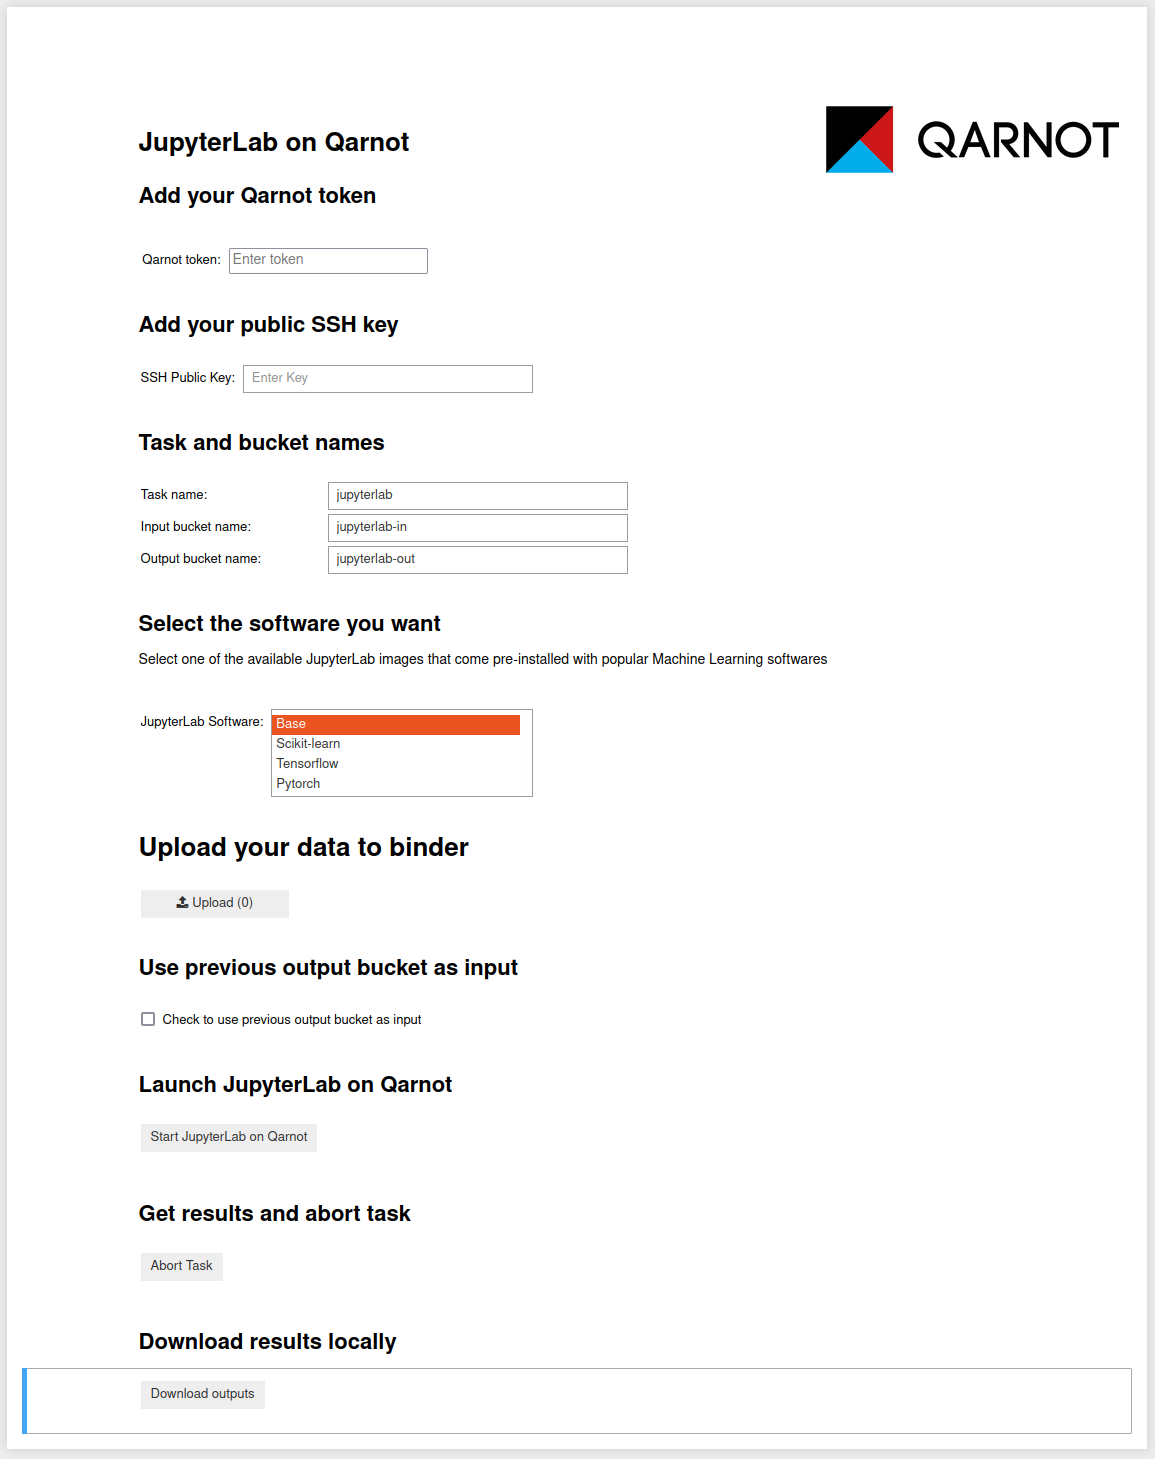
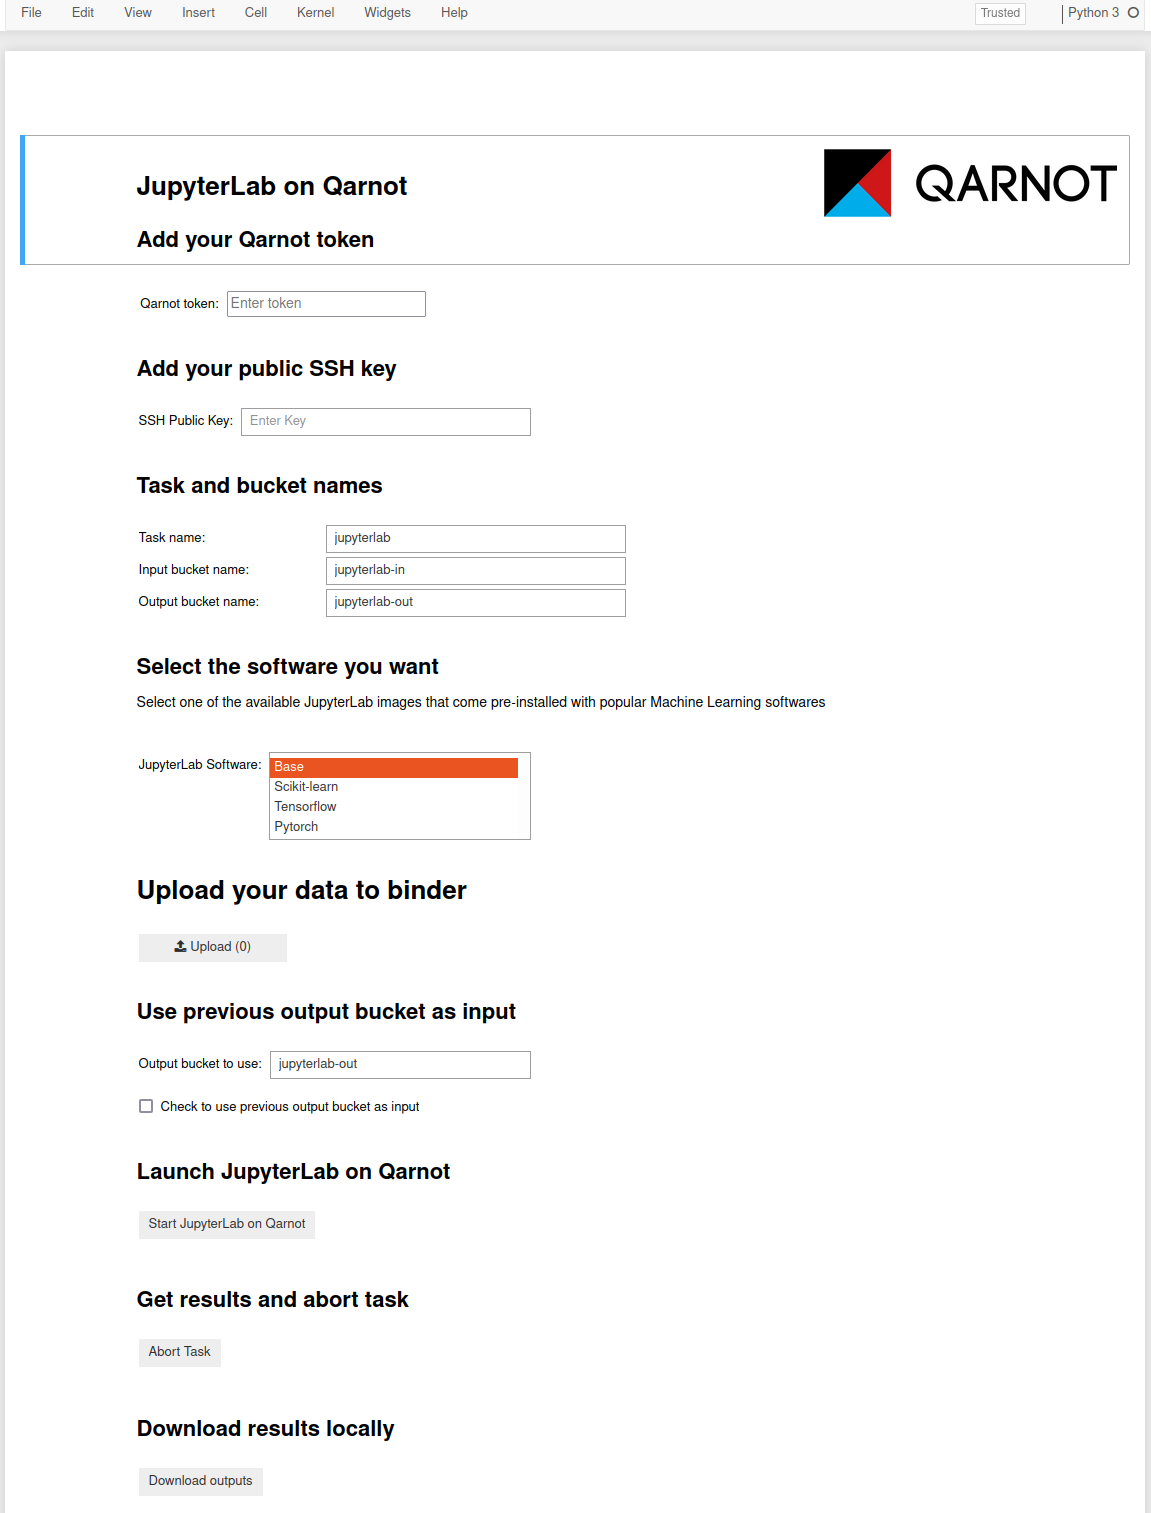
update use previous bucket feature

diff --git a/run_qarnot.py b/run_qarnot.py
@@ -59,7 +59,7 @@ def submit_task(param_dict):
 
         # Append previous output bucket to inputs if bool is true
         if param_dict['use_output_bucket']:
-            task.resources.append(output_bucket)
+            task.resources.append(conn.retrieve_bucket(param_dict['prev_out_bucket']))
 
         # Submit the task
         logger.debug("Launching task...")    

diff --git a/README.md b/README.md
@@ -64,6 +64,7 @@ In order to launch the JupyterLab instance on Qarnot, the user has to fill-in th
   
 ### Note about reusing output bucket
 * There is a an optional check box to use the previous output bucket as an input bucket.
+* You can change the name of which output bucket you want to use with the text field.
 * This feature is used for picking up where you last left off from your work session on Qarnot.
 * It can contain the following files: 
   * your previous notebooks along with their respective checkpoints so you can continue to work on them in a seamless way
